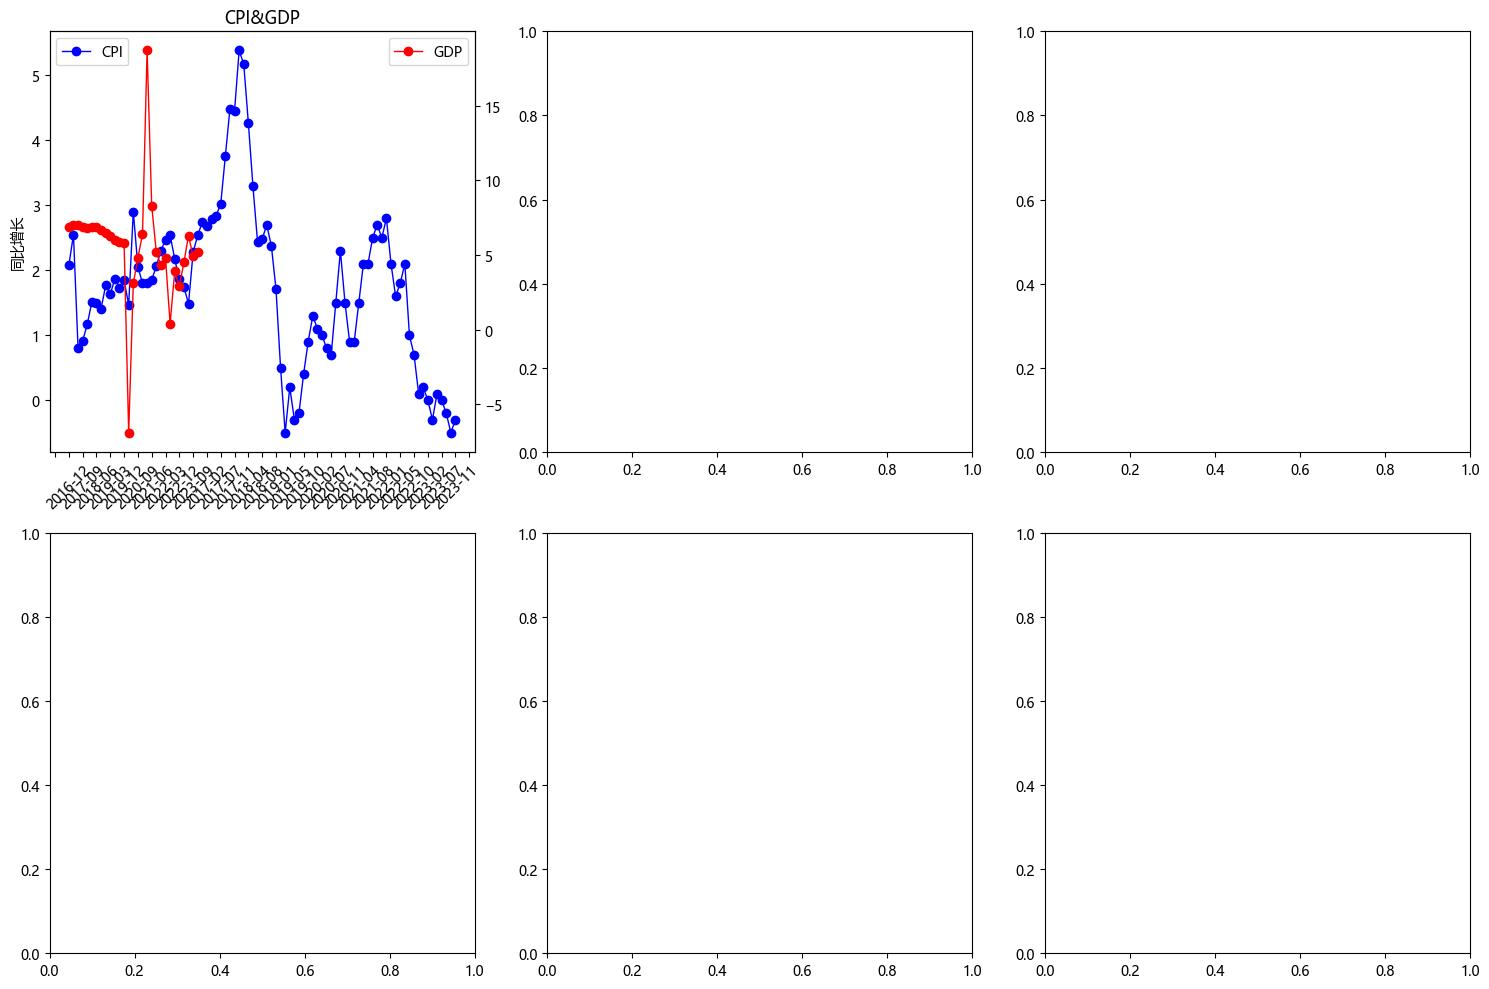
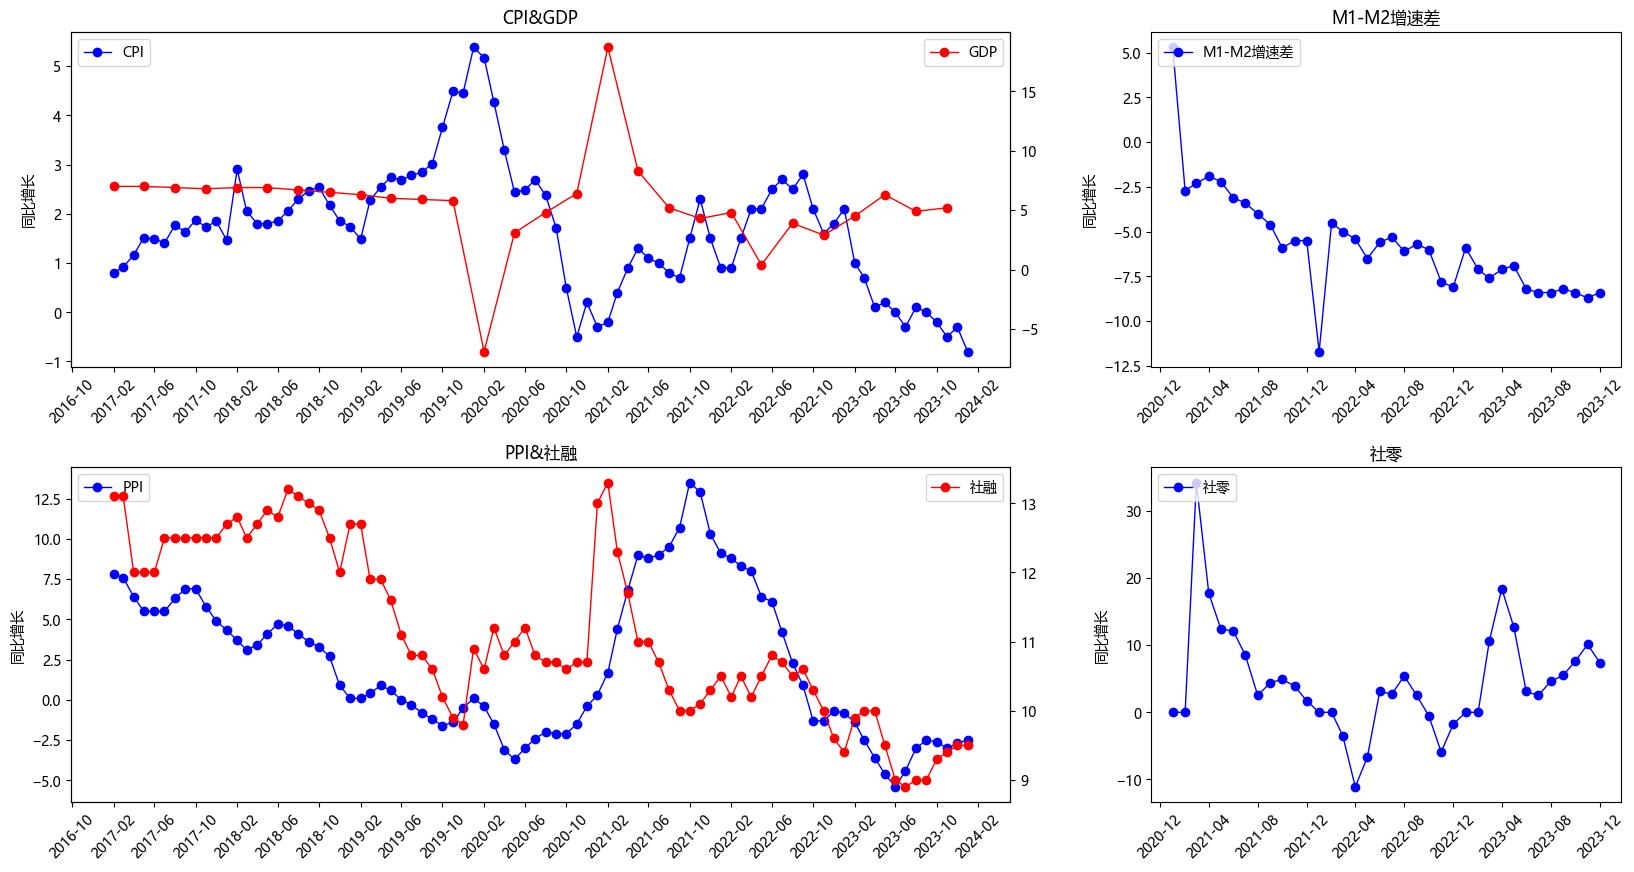
update

diff --git a/main.py b/main.py
@@ -8,6 +8,8 @@ import pandas as pd
 from matplotlib.font_manager import FontManager
 import matplotlib
 matplotlib.rc("font", family='Microsoft YaHei')
+import matplotlib.dates as mdates
+from matplotlib import gridspec
 
 from data import date_gen, social_financing
 
@@ -17,14 +19,14 @@ config = [
             'func': 'get_cpi',
             'title': 'CPI',
             'utils': ['居民消费价格指数(上年同月=100)'],
-            'range': 86,
+            'range': 84,
         },
         {
             'func': 'get_gdp_q',
             'title': 'GDP',
             'utils': ['分季国内生产总值指数'],
             'unit': 'season',
-            'range': 29,
+            'range': 28,
         },
     ], [
         {
@@ -37,11 +39,13 @@ config = [
             'func': 'get_ppi',
             'title': 'PPI',
             'utils': ['工业生产者出厂价格指数(上年同月=100)'],
+            'range': 84,
         },
         {
             'func': '',
             'title': '社融',
             'utils': ['社会融资规模存量同比'],
+            'range': 84,
         },
     ], [
         {
@@ -52,18 +56,21 @@ config = [
     ]
 ]
 
-rows, columns = 2, 3
+rows, columns = 2, 2
 
 
-def plot_line_graph(ax, title_list, unit_list, date, value_list):
+def plot_line_graph(ax, title_list, unit_list, date, value_list, duration):
     x_axis_data = date.values  # x
     y_axis_data = value_list[0].values
 
-    x_axis_data = [date[:4] + '-' + date[4:] for date in x_axis_data]
+    x_axis_data = [np.datetime64(date[:4] + '-' + date[4:]) for date in x_axis_data]
+
+    # start = x_axis_data[0][:4] + '-' + x_axis_data[0][4:]
+    # pd.plotting.register_matplotlib_converters()
+    # x_axis_data = pd.period_range(start, periods=len(x_axis_data), freq='M')
 
     ax.set_title('&'.join(title_list))
-    x_tmp = [i for i in range(85)]
-    ax.plot(x_tmp, y_axis_data, 'bo-', alpha=1, linewidth=1, label=title_list[0])  # 'bo-'表示蓝色实线，数据点实心原点标注
+    ax.plot(x_axis_data, y_axis_data, 'bo-', alpha=1, linewidth=1, label=title_list[0])  # 'bo-'表示蓝色实线，数据点实心原点标注
     # plot中参数的含义分别是横轴值，纵轴值，线的形状（'s'方块,'o'实心圆点，'*'五角星   ...，颜色，透明度,线的宽度和标签 ，
 
     # plt.legend()  # 显示上面的label
@@ -73,26 +80,29 @@ def plot_line_graph(ax, title_list, unit_list, date, value_list):
 
     if len(unit_list) == len(value_list) == 2:
         if unit_list[1] == 'season':
-            x_twin_tmp = x_axis_data[::3]
+            x_axis_data = x_axis_data[::3]
         else:
-            x_twin_tmp = x_axis_data
+            x_axis_data = x_axis_data
 
         y_axis_data_twin = value_list[1].values
         ax_twin = ax.twinx()
-        ax_twin.plot(x_twin_tmp, y_axis_data_twin, 'ro-', alpha=1, linewidth=1, label=title_list[1])  # 'bo-'表示蓝色实线，数据点实心原点标注
+        ax_twin.plot(x_axis_data, y_axis_data_twin, 'ro-', alpha=1, linewidth=1, label=title_list[1])  # 'bo-'表示蓝色实线，数据点实心原点标注
         ax_twin.legend(loc='upper right')
 
     # ax.set_xticks(x_axis_data)
     ax.tick_params(axis='x', labelrotation=45)
     tick_spacing = 12
-    if unit_list[0] == 'month':
-        ax.xaxis.set_major_locator(ticker.MultipleLocator(3))
+    # if unit_list[0] == 'month':
+    locator = mdates.MonthLocator(interval=max(int(len(value_list[0]) / len(value_list) / 9), 1))
+    # formatter = mdates.ConciseDateFormatter(locator)
+    ax.xaxis.set_major_locator(locator)
+    # ax.xaxis.set_major_formatter(formatter)
 
 
 def data_preprocess(func, title, utils, unit, duration):
     if func != '':
         print(f'{func} ...', end='')
-        rsp, msg = getattr(economy, func)(duration)
+        rsp, msg = getattr(economy, func)(duration + 1)
         sleep(3)
         df = rsp[rsp['indicator_name'] == utils[0]][['date', 'value']].reset_index(drop=True)
         date = df['date']  # x
@@ -110,32 +120,35 @@ def data_preprocess(func, title, utils, unit, duration):
         value = value[::-1]
         date = date[::-1]
 
-        # remove last invalid data
-        if unit == 'month':
+        if df['value'][0] == 0:
             value = value[:-1]
             date = date[:-1]
+        else:
+            value = value[1:]
+            date = date[1:]
     else:
-        date = pd.Series(date_gen)
+        date = pd.Series(date_gen(duration))
 
         if title == '社融':
             print(f'{title} ...', end='')
-            value = pd.Series(social_financing[-37:])
+            value = pd.Series(social_financing[-duration:])
 
-        date = date[::-1]
-
-    if unit == 'season':
-        date = date[-41:]
-        value = value[-41:]
-    elif unit == 'year':
-        date = date[-4:]
-        value = value[-4:]
+    # if unit == 'season':
+    #     date = date[-41:]
+    #     value = value[-41:]
+    # elif unit == 'year':
+    #     date = date[-4:]
+    #     value = value[-4:]
 
     return date, value
 
 
 if __name__ == '__main__':
-    unit = 5
-    fig, ax = plt.subplots(rows, columns, figsize=(columns * unit, rows * unit))
+    scale = 5
+    fig = plt.figure(figsize=(columns * scale * 2, rows * scale))
+    spec = gridspec.GridSpec(ncols=columns, nrows=rows,
+                             width_ratios=[2, 1], wspace=0.2,
+                             hspace=0.3, height_ratios=[1, 1])
 
     for ind, values in enumerate(config):
         title_list, unit_list, value_list, date_list = [], [], [], []
@@ -144,7 +157,7 @@ if __name__ == '__main__':
             title = value['title']
             utils = value['utils']
             unit = value.get('unit', 'month')
-            duration = value.get('range', '38')
+            duration = value.get('range', 36)
 
             date, value = data_preprocess(func, title, utils, unit, duration)
 
@@ -153,10 +166,11 @@ if __name__ == '__main__':
             value_list.append(value)
             date_list.append(date)
 
-        plot_line_graph(ax[ind // columns][ind % columns], title_list,
-                        unit_list, date_list[0], value_list)
+        ax = fig.add_subplot(spec[ind])
+        plot_line_graph(ax, title_list,
+                        unit_list, date_list[0], value_list, duration)
         print('Done')
-        break
+        # break
 
     # # CPI
     # print('CPI ...', end='')
@@ -183,6 +197,6 @@ if __name__ == '__main__':
     # plot_line_graph(ind, date, value)
     # sleep(3)
     # print('Done')
-    fig.tight_layout()
+    # fig.tight_layout()
     # plt.ylim(-1,1)#仅设置y轴坐标范围
     plt.savefig(f'macro.jpg', dpi=100, bbox_inches='tight')

diff --git a/opendatatools/economy/nbs_agent.py b/opendatatools/economy/nbs_agent.py
@@ -623,8 +623,8 @@ class NBSAgent(RestAgent):
     def get_region_cpi(self, region):
         return self._get_df_indicator(region, 'E0101', 'A010101', dbcode = 'fsyd')
 
-    def get_ppi(self):
-        return self._get_qg_indicator('A01', 'A010801', dbcode = 'hgyd')
+    def get_ppi(self, duration):
+        return self._get_qg_indicator('A01', 'A010801', dbcode = 'hgyd', valuecode=f'LAST{duration}')
 
     def get_region_ppi(self, region):
         return self._get_df_indicator(region, 'E0101', 'A0103', dbcode = 'fsyd')
@@ -641,8 +641,8 @@ class NBSAgent(RestAgent):
     def get_gdp_q(self, duration):
         return self._get_qg_indicator('B01', 'A0103', dbcode = 'hgjd', valuecode=f'LAST{duration}')
 
-    def get_M0_M1_M2(self):
-        return self._get_qg_indicator('A01', 'A0D01', dbcode = 'hgyd')
+    def get_M0_M1_M2(self, duration):
+        return self._get_qg_indicator('A01', 'A0D01', dbcode = 'hgyd', valuecode=f'LAST{duration}')
 
     def get_fiscal_revenue(self):
         return self._get_qg_indicator('A01', 'A1A01', dbcode = 'hgyd')
@@ -665,8 +665,8 @@ class NBSAgent(RestAgent):
     def get_fdi(self):
         return self._get_qg_indicator('A01', 'A1602', dbcode = 'hgyd')
 
-    def get_retail_sales(self):
-        return self._get_qg_indicator('A01', 'A0701', dbcode = 'hgyd')
+    def get_retail_sales(self, duration):
+        return self._get_qg_indicator('A01', 'A0701', dbcode = 'hgyd', valuecode=f'LAST{duration}')
 
     def get_online_retail_sales(self):
         return self._get_qg_indicator('A01', 'A1508', dbcode='hgyd')

diff --git a/opendatatools/economy/economy_interface.py b/opendatatools/economy/economy_interface.py
@@ -49,8 +49,8 @@ def get_city_map():
 def get_gdp_y():
     return nbs_agent.get_gdp_y()
 
-def get_region_gdp_y():
-    return nbs_agent.get_region_gdp_y()
+def get_region_gdp_y(duration):
+    return nbs_agent.get_region_gdp_y(duration)
 
 def get_population_size_y():
     return nbs_agent.get_population_size_y()
@@ -67,8 +67,8 @@ def get_cpi(duration):
 def get_region_cpi(region):
     return nbs_agent.get_region_cpi(region)
 
-def get_ppi():
-    return nbs_agent.get_ppi()
+def get_ppi(duration):
+    return nbs_agent.get_ppi(duration)
 
 def get_region_ppi(region):
     return nbs_agent.get_region_ppi(region)
@@ -85,8 +85,8 @@ def get_gdp_q2q():
 def get_gdp_q(duration):
     return nbs_agent.get_gdp_q(duration)
 
-def get_M0_M1_M2():
-    return nbs_agent.get_M0_M1_M2()
+def get_M0_M1_M2(duration):
+    return nbs_agent.get_M0_M1_M2(duration)
 
 def get_fiscal_revenue():
     return nbs_agent.get_fiscal_revenue()
@@ -109,8 +109,8 @@ def get_import_export():
 def get_fdi():
     return nbs_agent.get_fdi()
 
-def get_retail_sales():
-    return nbs_agent.get_retail_sales()
+def get_retail_sales(duration):
+    return nbs_agent.get_retail_sales(duration)
 
 def get_online_retail_sales():
     return nbs_agent.get_online_retail_sales()

diff --git a/data.py b/data.py
@@ -1,21 +1,28 @@
 from datetime import datetime
 
-now = datetime.now()
-year = now.year
-month = now.month
-date_gen = []
-for ele in range(37):
-    if month == 1:
-        year -= 1
-        month = 12
-    else:
-        month -= 1
 
-    date_gen.append(f'{year}{month:02d}')
+def date_gen(duration):
+    now = datetime.now()
+    year = now.year
+    month = now.month
+    date_gen = []
+    for ele in range(duration):
+        if month == 1:
+            year -= 1
+            month = 12
+        else:
+            month -= 1
+
+        date_gen.append(f'{year}{month:02d}')
+    return date_gen
 
 # reference:
 # http://www.pbc.gov.cn/diaochatongjisi/resource/cms/
 social_financing = [
+    13.1, 13.1, 13.1, 12.0, 12.0, 12.0,	12.5, 12.5, 12.5, 12.5, 12.5, 12.5,
+    12.7, 12.8, 12.5, 12.7, 12.9, 12.8, 13.2, 13.1, 13.0, 12.9, 12.5, 12.0,
+    12.7, 12.7, 11.9, 11.9, 11.6, 11.1, 10.8, 10.8, 10.6, 10.2, 9.9, 9.8,
+    10.9, 10.6, 11.2, 10.8, 11.0, 11.2, 10.8, 10.7, 10.7, 10.6, 10.7, 10.7,
     13.0, 13.3, 12.3, 11.7, 11.0, 11.0, 10.7, 10.3, 10.0, 10.0, 10.1, 10.3,
     10.5, 10.2, 10.5, 10.2, 10.5, 10.8, 10.7, 10.5, 10.6, 10.3, 10.0, 9.6,
     9.4, 9.9, 10.0, 10.0, 9.5, 9.0, 8.9, 9.0, 9.0, 9.3, 9.4, 9.5,
